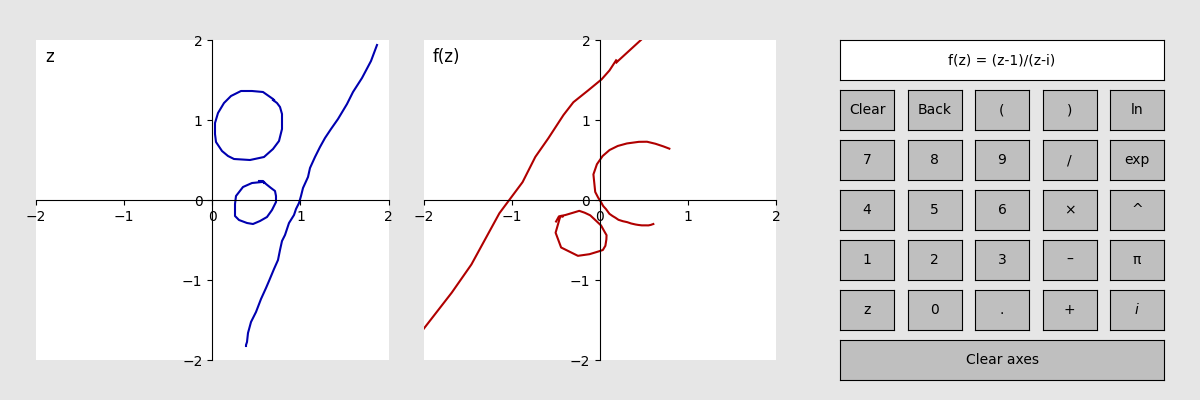
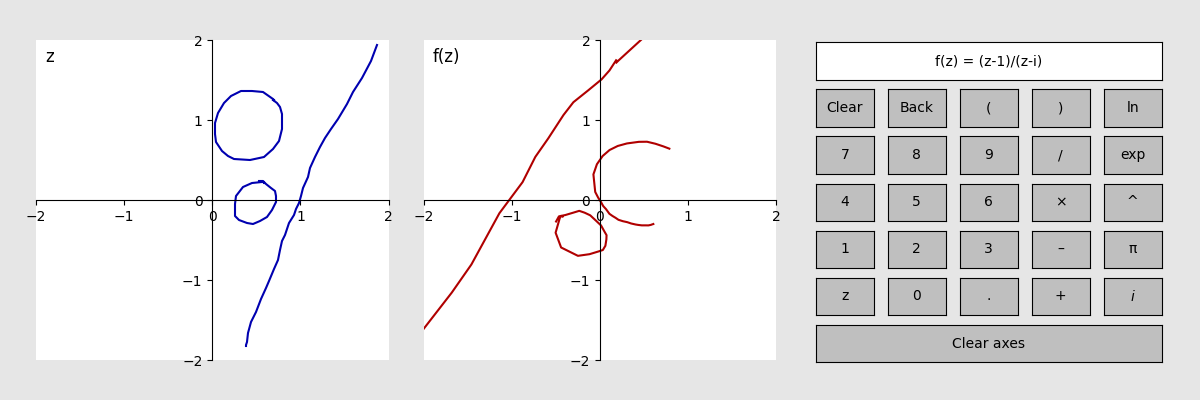
Aligned button layout

Changed region(s): [[0.6783, 0.09, 0.9867, 0.96]]

diff --git a/Complex mapping.py b/Complex mapping.py
@@ -14,8 +14,8 @@ subplots_spacing = 0.1
 plt.subplots_adjust(top=subplots_top, bottom=subplots_bottom, left=subplots_left, right=subplots_right, hspace=subplots_spacing, wspace=subplots_spacing)
 # List of button axes; to be filled later
 (N_button_rows, N_button_cols) = (5, 5)
-(left_edge, top_edge) = (0.7, 0.8)
-[button_width, button_height] = [0.045, 0.1]
+(left_edge, top_edge) = (0.68, 0.8)
+[button_width, button_height] = [0.3/(N_button_cols+N_button_cols*0.25), (subplots_top-subplots_bottom)/(N_button_rows+2+(N_button_rows+1)*0.25)] # Since button margin will be button size/4; add 2 for readout and axes-clearing button
 [button_width_margin, button_height_margin] = [button_width/4, button_height/4]
 button_axes = []
 # Readout in the GUI showing the mapping function; give it button height but the width of all buttons together
